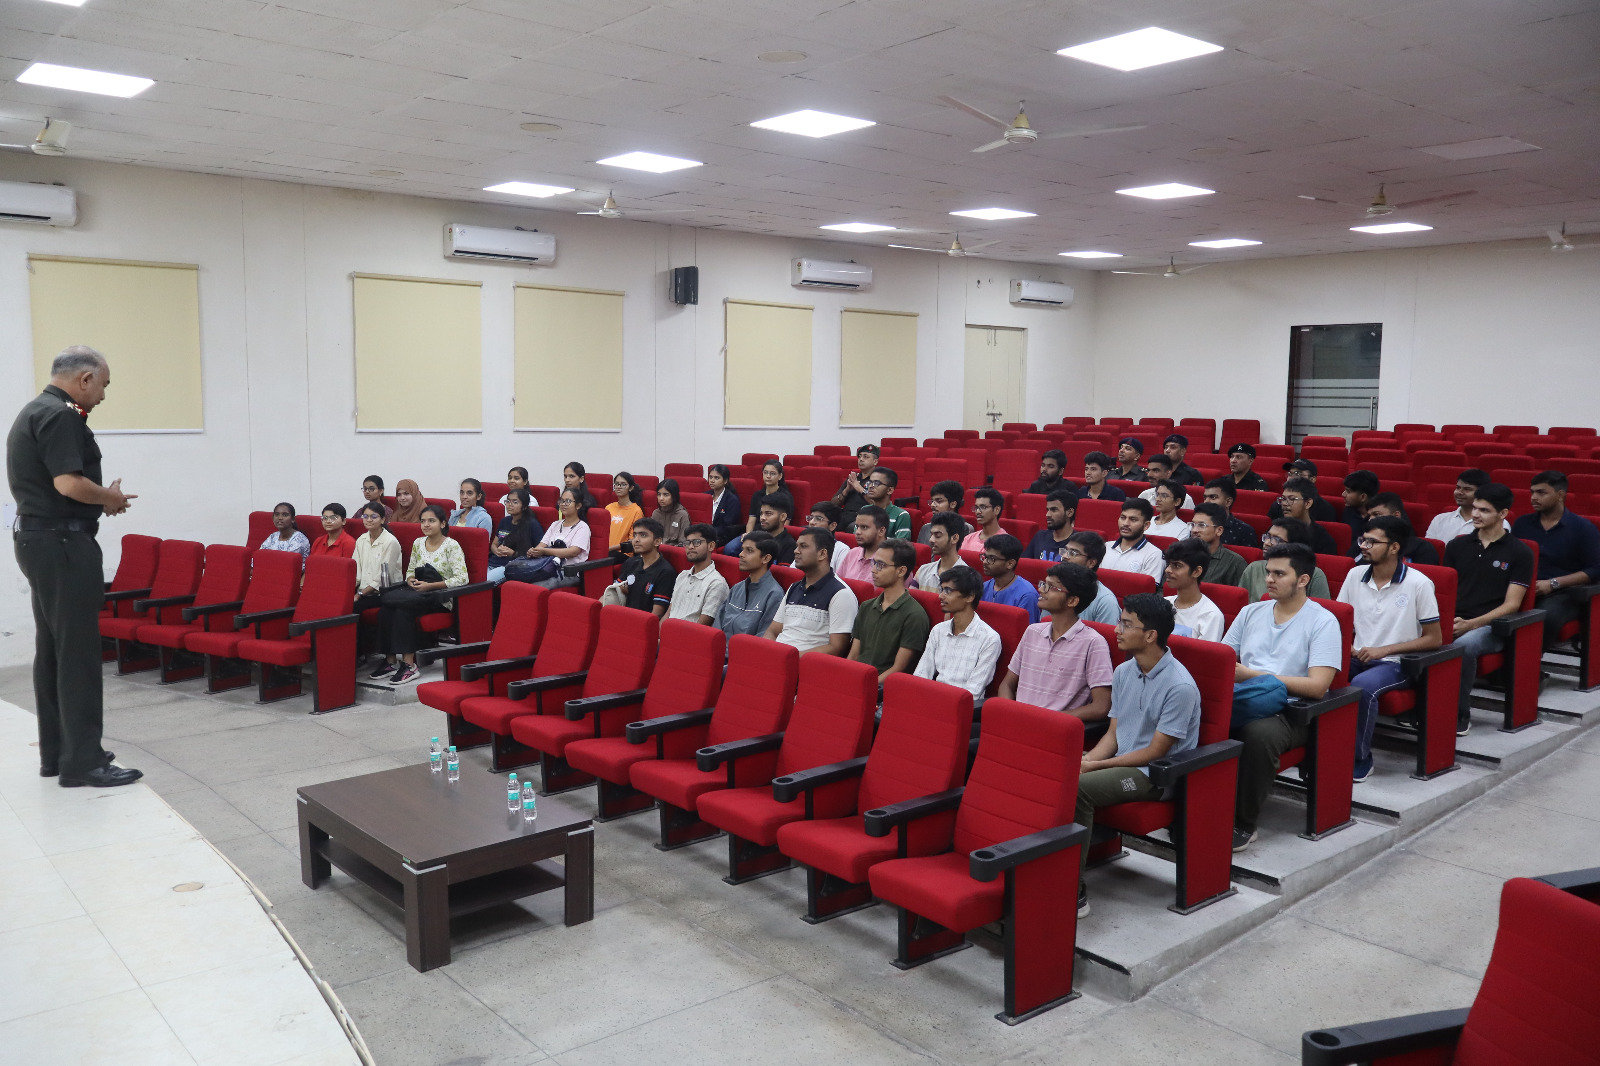
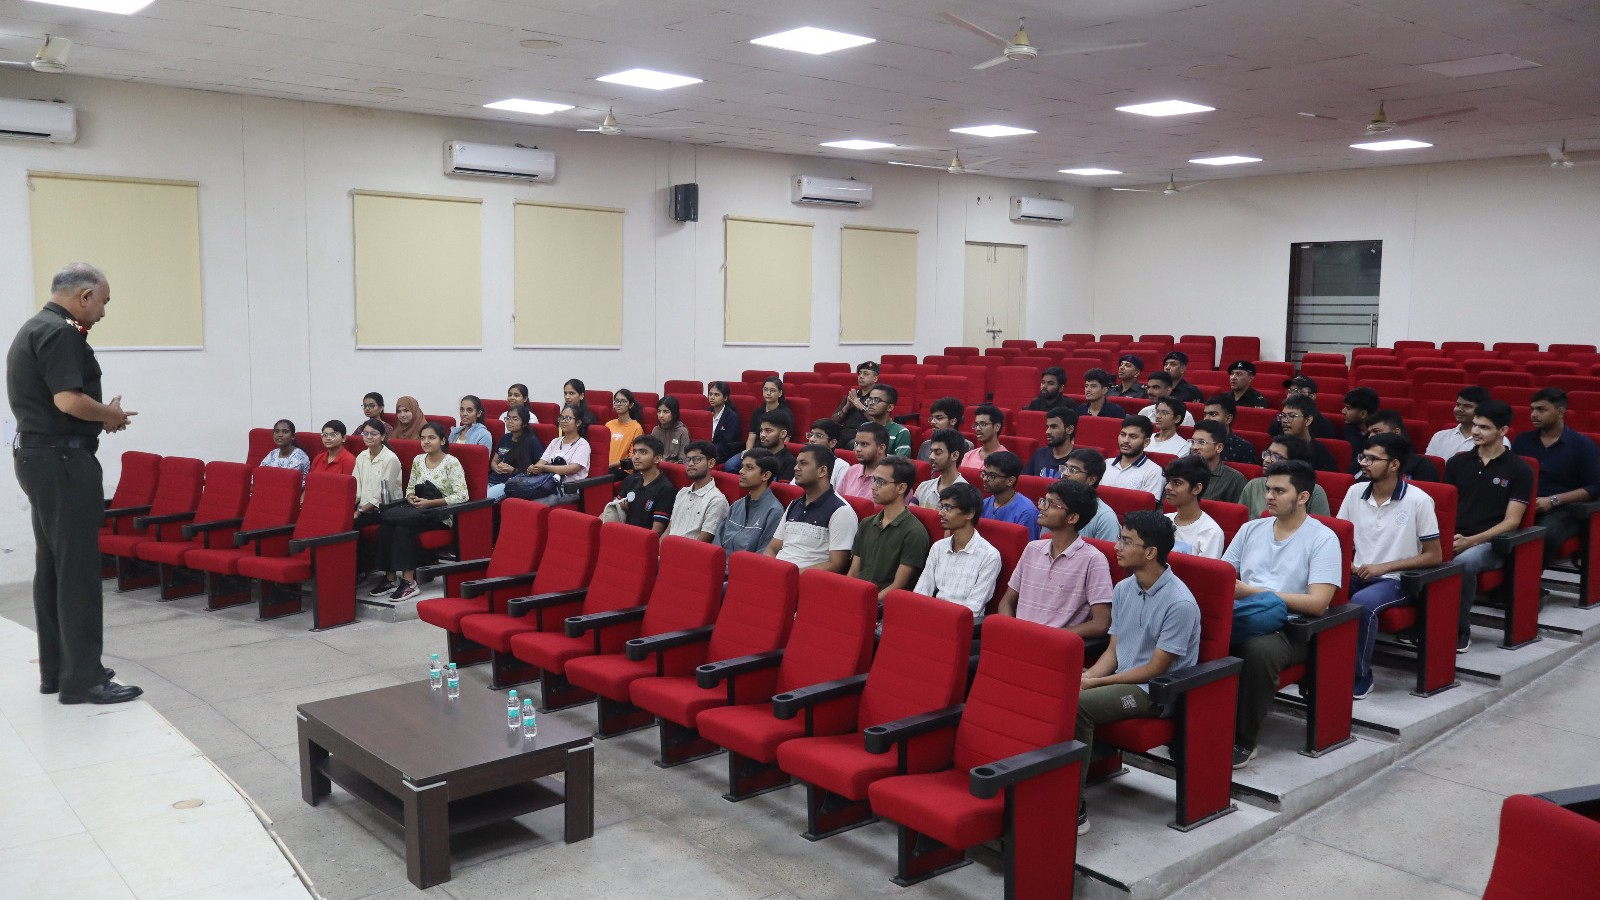
restored code and cropped image

diff --git a/ncc/src/components/Events/Events.js b/ncc/src/components/Events/Events.js
@@ -9,7 +9,11 @@ function Events() {
     const carouselContainerRef = useRef(null);
 
     const events = [
-
+ {
+            src: "./images/events/15aug-2025.png",
+            alt: "Guard of Honour on Independance Day",
+            dataBsTarget: "#exampleModalp39"
+        },
         {
             src: "./images/events/AAD-25-2.jpg",
             alt: "Recreational Activity At AAD",
